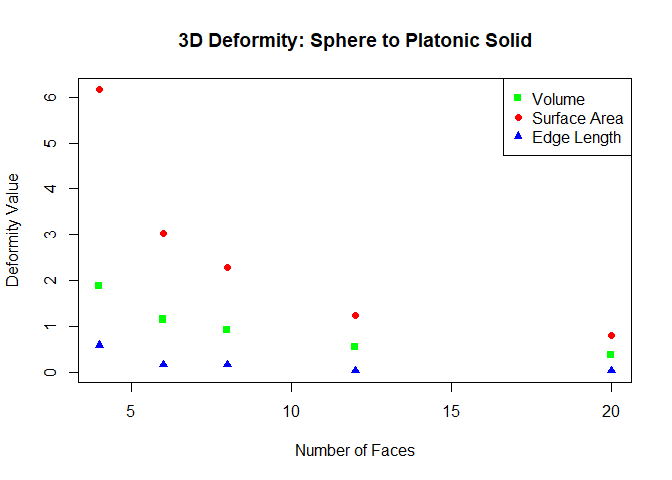
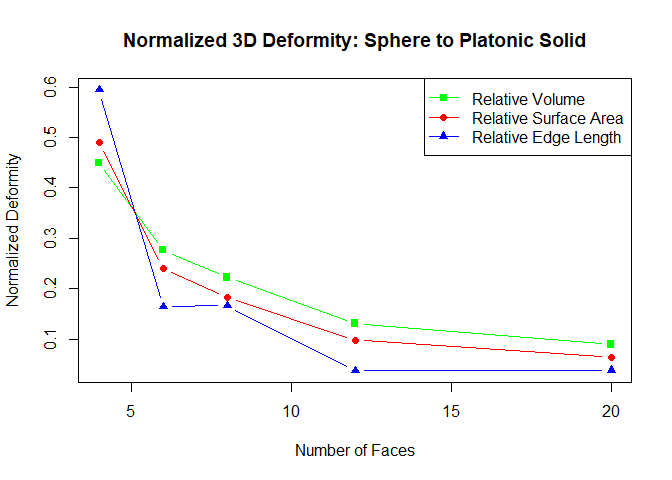
update readme (3d normalization)

diff --git a/README.md b/README.md
@@ -101,7 +101,8 @@ polygon sides increases.
 
 The package provides a similar set of functions for exploring the
 transformation of a sphere into one of the five Platonic solids
-(identified by their number of faces: 4, 6, 8, 12, or 20).
+(identified by their number of faces: 4, 6, 8, 12, or 20). The plot
+below shows the normalized deformities for a fair comparison.
 
 ``` r
 # Define the five Platonic solids
@@ -112,22 +113,30 @@ edge_def <- dsvsarps(solids)
 area_def <- dsvsarpa(solids)
 vol_def <- dsvsarpv(solids)
 
+# Normalize the values to make them dimensionless (for a unit sphere, r=1)
+# Normalize volume by sphere's volume (4/3 * pi * r^3)
+# Normalize surface area by sphere's surface area (4 * pi * r^2)
+# Normalize edge length by sphere's radius (r)
+norm_vol_def <- vol_def / ((4/3) * pi)
+norm_area_def_3d <- area_def / (4 * pi)
+norm_edge_def <- edge_def / 1
+
 # Plot the results
-plot(solids, vol_def, col="green", pch=15,
-     xlab="Number of Faces", ylab="Deformity Value",
-     main="3D Deformity: Sphere to Platonic Solid",
-     ylim=range(c(edge_def, area_def, vol_def))) # Set y-axis to fit all points
-points(solids, area_def, col="red", pch=16)
-points(solids, edge_def, col="blue", pch=17)
-legend("topright", c("Volume", "Surface Area", "Edge Length"),
-       col=c("green","red","blue"), pch=c(15,16,17))
+plot(solids, norm_vol_def, type = "b", col="green", pch=15,
+     xlab="Number of Faces", ylab="Normalized Deformity",
+     main="Normalized 3D Deformity: Sphere to Platonic Solid",
+     ylim=range(c(norm_vol_def, norm_area_def_3d, norm_edge_def))) # Set y-axis to fit all points
+points(solids, norm_area_def_3d, type = "b", col="red", pch=16)
+points(solids, norm_edge_def, type = "b", col="blue", pch=17)
+legend("topright", c("Relative Volume", "Relative Surface Area", "Relative Edge Length"),
+       col=c("green","red","blue"), lty=1, pch=c(15,16,17))
 ```
 
 <div class="figure">
 
-<img src="man/figures/README-example-3d-plot-1.png" alt="Comparison of deformity types for the five Platonic solids." width="100%" />
+<img src="man/figures/README-example-3d-plot-1.png" alt="Comparison of normalized deformity types for the five Platonic solids." width="100%" />
 <p class="caption">
-Comparison of deformity types for the five Platonic solids.
+Comparison of normalized deformity types for the five Platonic solids.
 </p>
 
 </div>
